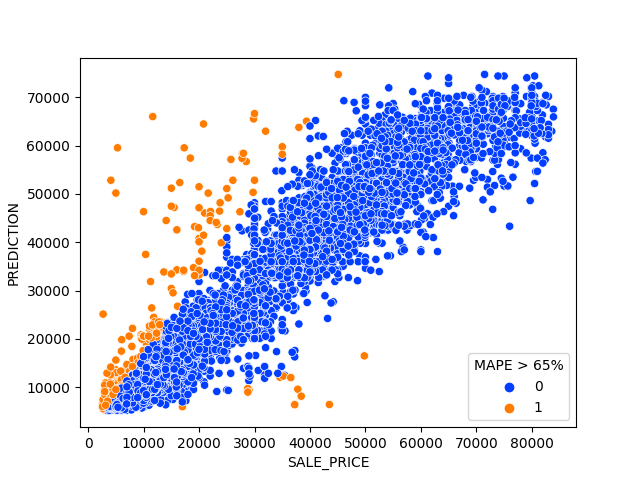
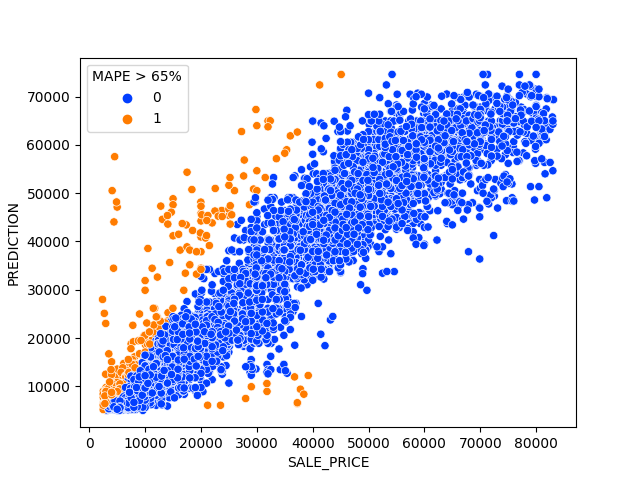
adição de filtros de fabricantes

diff --git a/src/electric_vehicles/pipelines/data_science/pipeline.py b/src/electric_vehicles/pipelines/data_science/pipeline.py
@@ -20,7 +20,10 @@ def data_science_pipeline(**kwargs) -> Pipeline:
         [
             node(
                 func=remove_sale_and_odometer_outliers,
-                inputs={"df_bev": "bev_resale_database"},
+                inputs={
+                    "df_bev": "bev_resale_database",
+                    "filter_make": "params:filter_make"
+                },
                 outputs="df_bev_wo_outlier",
                 name="remove_sale_and_odometer_outliers",
             ),

diff --git a/src/electric_vehicles/pipelines/data_science/nodes.py b/src/electric_vehicles/pipelines/data_science/nodes.py
@@ -56,11 +56,15 @@ def remove_outlier(
 
 def remove_sale_and_odometer_outliers(
     df_bev: pd.DataFrame,
+    filter_make: list
 ) -> pd.DataFrame:
     """
     Remove outliers de preço de revenda venda e
     medições de odômetro.
     """
+
+    # Removendo fabricantes não desejados
+    df_bev = df_bev[~df_bev["MAKE"].isin(filter_make)].copy()
 
     # Outliers de preço de revenda
     df_bev_wo_outlier = remove_outlier(df_bev, "SALE_PRICE", upper_only=True)
